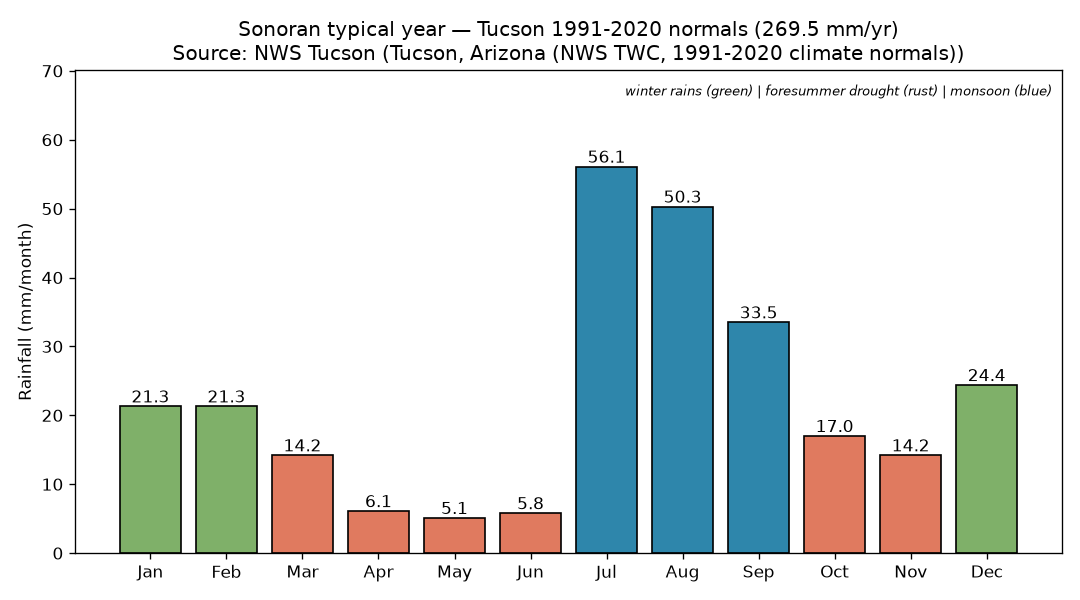
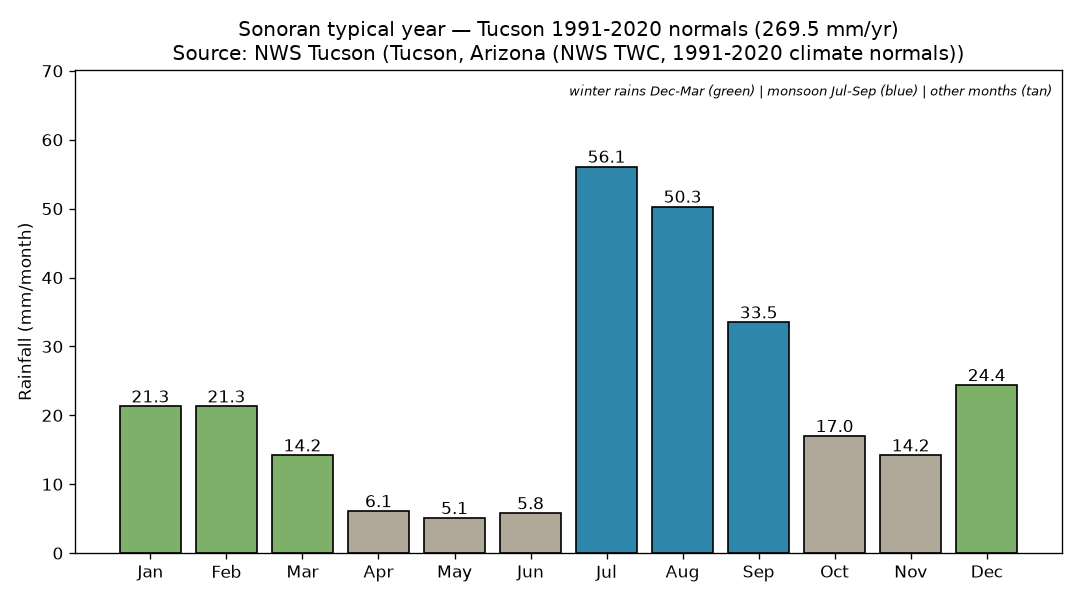
feat(6): address cubic review - chart colors, info text, mesquite schema notes, validator guards

Changed region(s): [[0.7333, 0.72, 0.8861, 0.93], [0.2444, 0.75, 0.5194, 0.93], [0.5194, 0.12, 0.9778, 0.18]]

diff --git a/scripts/validate_sonoran.py b/scripts/validate_sonoran.py
@@ -27,11 +27,11 @@ check(monsoon > sum(r["rainfall_mm"]) * 0.45, f"monsoon Jul-Sep share {monsoon/s
 check(m.get("species") == "Prosopis velutina", "mesquite species set")
 check(m.get("nitrogen_fixer") is True, "mesquite nitrogen_fixer true")
 check("game_stats_proposed" in m, "mesquite has proposed game stats (no tuning.json overwrite)")
-g = m["game_stats_proposed"]
+g = m.get("game_stats_proposed") or {}
 check(g.get("cost_usd") == 40 and g.get("build_manhours") == 2, "mesquite cost/manhours match feat/4 tuning (40 USD, 2 mh)")
 check(g.get("water_need_gal_per_mo") == 250, "mesquite water need matches tuning (250 gal/mo)")
 check(g.get("yield_usd_per_mo") == 12 and g.get("yield_start_month") == 12, "mesquite yield matches tuning ($12/mo from month 12)")
-check("tuning.json" not in (ROOT / "data/mesquite.json").read_text().lower().replace("tuning.json plant schema when it lands", "") or True, "mesquite file is separate from tuning schema")
+check("game_stats_proposed" in m and all(k not in m for k in ("cost_usd", "water_need_gal_per_mo", "yield_usd_per_mo")), "mesquite stats namespaced under game_stats_proposed, separate from tuning schema")
 check(len(m.get("sources", [])) >= 2, "mesquite cites >=2 sources")
 
 info = (ROOT / "docs/sonoran_info.md").read_text().lower()

diff --git a/scripts/plot_rainfall.py b/scripts/plot_rainfall.py
@@ -10,14 +10,16 @@ data = json.loads((ROOT / "data/sonoran_rainfall.json").read_text())
 months, vals = data["months"], data["rainfall_mm"]
 assert len(months) == 12 == len(vals), "need 12 months of data"
 
-colors = ["#2e86ab" if 6 <= i <= 8 else "#7fb069" if i in (0, 1, 11) else "#e07a5f" for i in range(12)]
+WINTER = {0, 1, 2, 11}  # Dec-Mar winter rains
+MONSOON = {6, 7, 8}  # Jul-Sep monsoon
+colors = ["#2e86ab" if i in MONSOON else "#7fb069" if i in WINTER else "#b0a898" for i in range(12)]
 fig, ax = plt.subplots(figsize=(9, 5))
 bars = ax.bar(months, vals, color=colors, edgecolor="black")
 ax.bar_label(bars, fmt="%.1f")
 ax.set_ylabel("Rainfall (mm/month)")
 ax.set_title(f"Sonoran typical year — Tucson 1991-2020 normals ({data['annual_mm']} mm/yr)\nSource: NWS Tucson ({data['station']})")
 ax.set_ylim(0, max(vals) * 1.25)
-ax.text(0.99, 0.97, "winter rains (green) | foresummer drought (rust) | monsoon (blue)",
+ax.text(0.99, 0.97, "winter rains Dec-Mar (green) | monsoon Jul-Sep (blue) | other months (tan)",
         transform=ax.transAxes, ha="right", va="top", fontsize=8, style="italic")
 fig.tight_layout()
 out = ROOT / "docs/evidence/6/rainfall_chart.png"

diff --git a/docs/sonoran_info.md b/docs/sonoran_info.md
@@ -3,11 +3,11 @@
 Source region: Arizona Upland Sonoran Desert around Tucson, AZ.
 Rainfall basis: NWS Tucson 1991–2020 normals, annual 10.61 in (~270 mm),
 bimodal: winter rains Dec–Mar + summer monsoon Jul–Sep, foresummer drought Apr–Jun.
-See `data/sonoran_rainfall.json`. __DOI or station lookup via NOAA U.S. Climate Normals.__
+Station: Tucson Intl Airport area; cross-check NOAA U.S. Climate Normals.
 
 ## Typical weather year
 
-- **Winter rains (Dec–Mar, ~60–75 mm total):** Gentle Pacific frontal storms.
+- **Winter rains (Dec–Mar, ~80 mm total):** Gentle Pacific frontal storms.
   Cool (highs 65–76 °F), best soil moisture of the year. Light but reliable.
 - **Foresummer drought (Apr–Jun):** Hottest, driest stretch. Highs 83–101 °F,
   almost no rain (~17 mm total). New plantings die without irrigation.
@@ -19,15 +19,16 @@ See `data/sonoran_rainfall.json`. __DOI or station lookup via NOAA U.S. Climate 
 
 ## Best time to plant
 
-1. **Monsoon onset (late Jun–Jul)** — top pick for natives like velvet mesquite:
+1. **Monsoon (Jul)** — top pick for natives like velvet mesquite:
    warm soil + coming rains = fast root growth. Dig basins/swales BEFORE the
-   storms so runoff soaks in.
+   storms so runoff soaks in. Note: June is still in the Apr–Jun penalty
+   window (poor establishment without extra watering) — wait for July.
 2. **Post-monsoon / fall (Sep–Oct)** — second best: warm soil, milder air,
    stored soil moisture; roots establish over winter.
 3. **Late winter (Feb–Mar)** — third: cool-season moisture still in soil;
    plant early enough to root before the Apr–Jun drought.
-4. **Avoid Apr–Jun** unless you can irrigate heavily — survival penalty
-   (~40% lower establishment, see `data/mesquite.json`).
+4. **Avoid Apr–Jun** unless you can irrigate heavily — new plantings
+   establish ~40% worse without extra watering.
 
 Rule of thumb: plant with the rains, not against them — monsoon for
 heat-lovers, fall/winter for cool-season annuals and perennials.
@@ -42,10 +43,10 @@ heat-lovers, fall/winter for cool-season annuals and perennials.
   drainage; water sheets off instead of soaking in.
 - **Pests/browsers:** Jackrabbits girdle young trees; bruchid beetles infest
   mesquite pods; mistletoe weakens branches.
-- **Extreme heat (100 °F+ ~68 days/yr):** Transplant shock, irrigation
+- **Extreme heat (100 °F+ many days each summer):** Transplant shock, irrigation
   evaporation losses, dry winds desiccate mulch.
 - **Overpumping:** Too many wells / thirsty non-natives crash the water table;
-  mesquite taproots compete with wells in the game model.
+  mesquite taproots compete with wells for groundwater.
 
 ## Strategies that work here
 
@@ -62,7 +63,7 @@ heat-lovers, fall/winter for cool-season annuals and perennials.
   deep-infrequent watering to drive taproots down, then taper off.
 - **Monsoon-proof structures:** Armor spillways with rock, keep berms low and
   broad, clean silt after big storms.
-- **Go native first:** Non-natives cost ~2–3× the water; natives survive the
+- **Go native first:** Non-natives need far more supplemental water; natives survive the
   foresummer on rainfall + stored soil water once established.
 
 ## Velvet mesquite in one line
